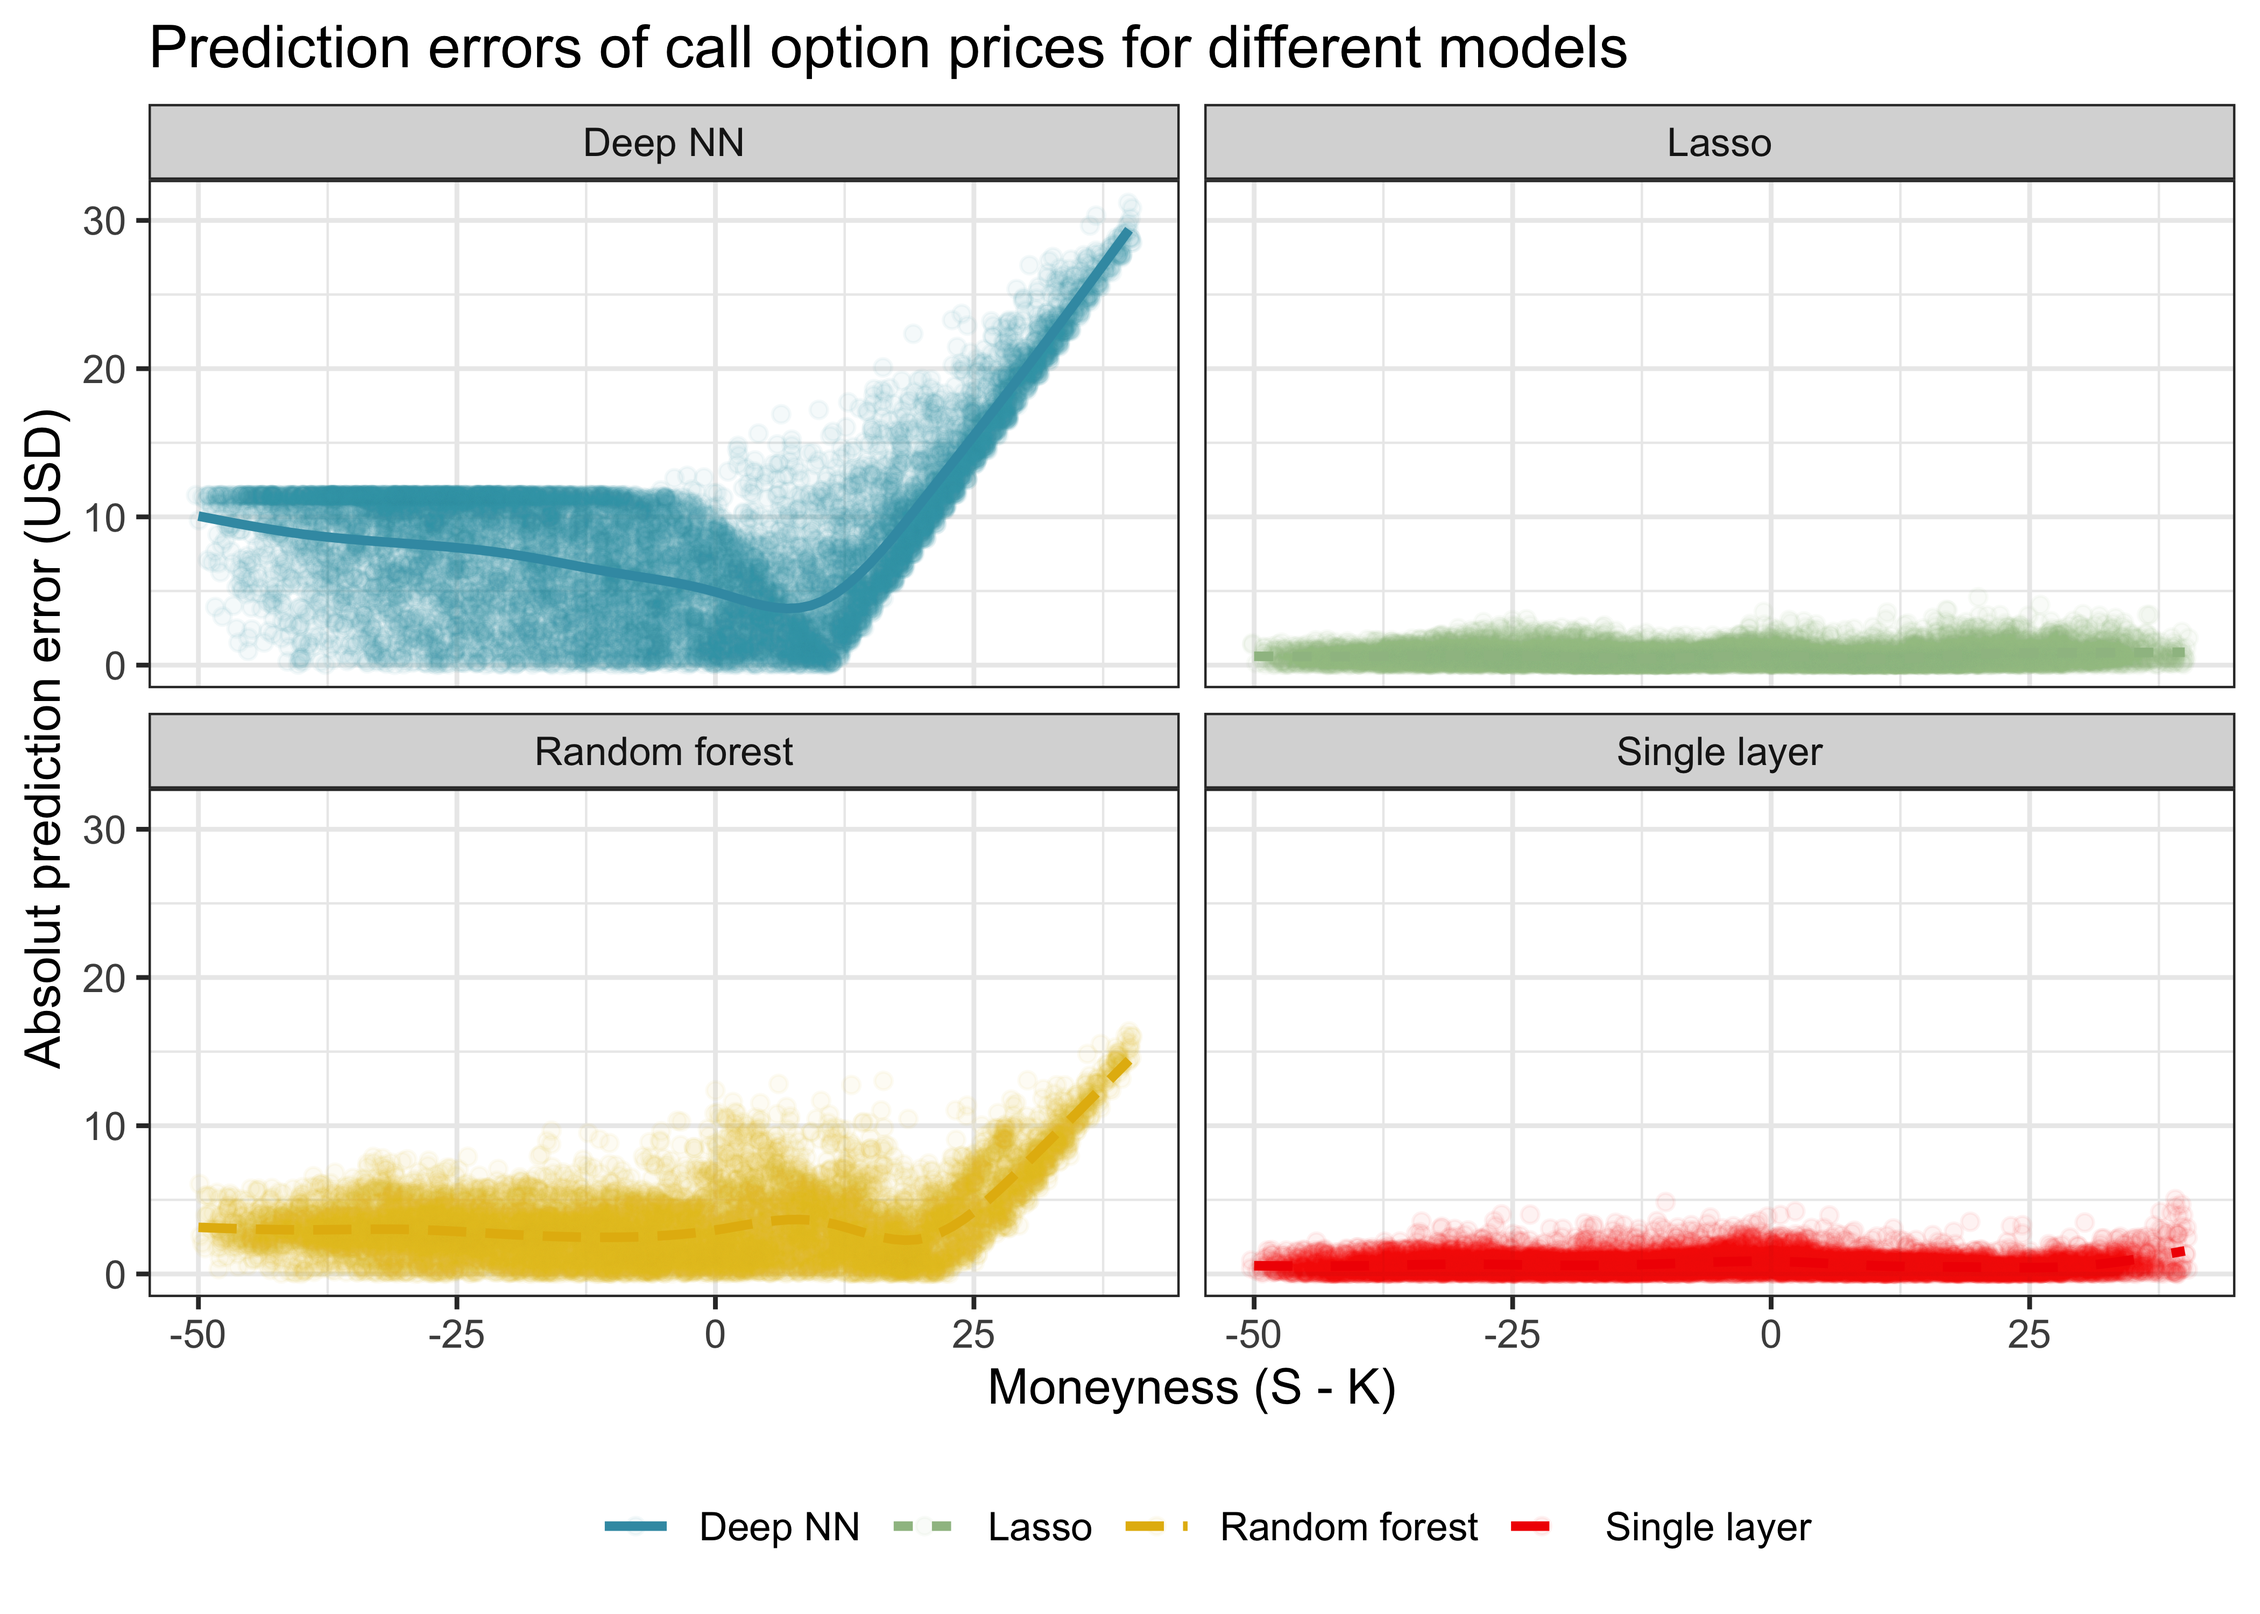
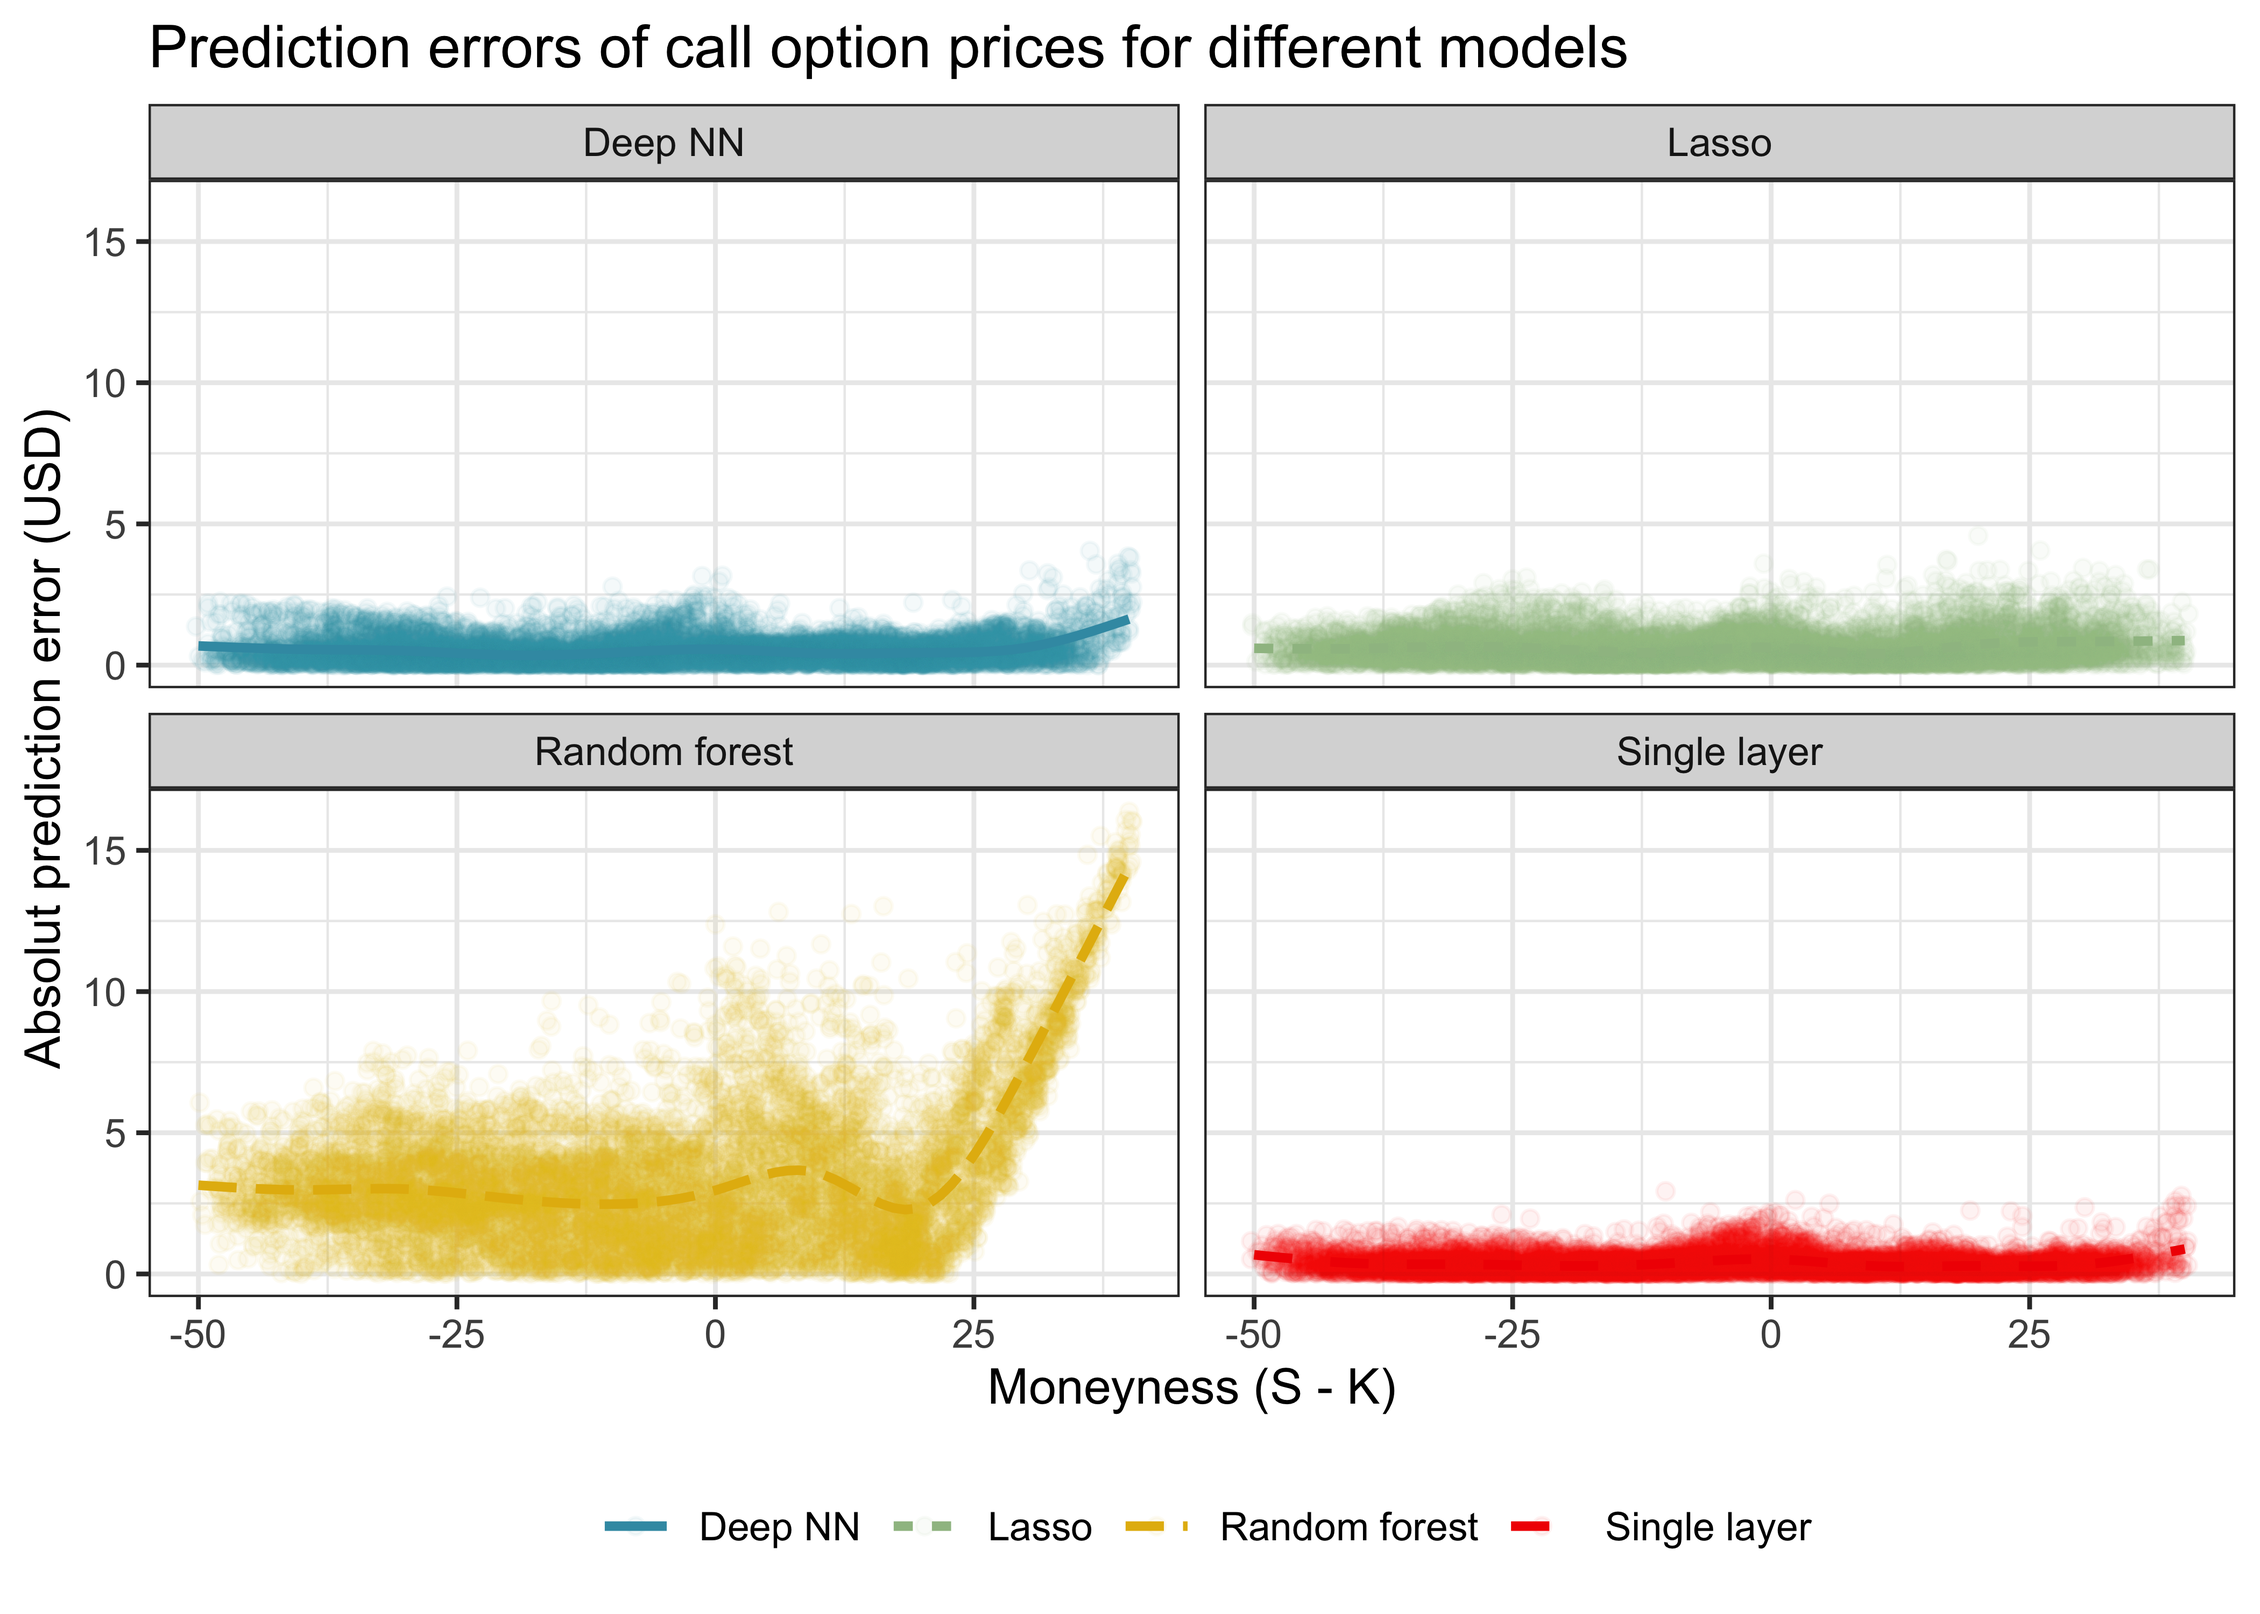
Reduced penalty to the default value of scikit-learn

Changed region(s): [[0.0312, 0.124, 0.9981, 0.434], [0.0312, 0.496, 0.9981, 0.806], [0.5302, 0.744, 0.9669, 0.806]]

diff --git a/docs/r/option-pricing-via-machine-learning.html b/docs/r/option-pricing-via-machine-learning.html
@@ -654,10 +654,11 @@ Note
 <div class="sourceCode cell-code" id="cb6"><pre class="sourceCode r code-with-copy"><code class="sourceCode r"><span id="cb6-1"><a href="#cb6-1" aria-hidden="true" tabindex="-1"></a>nnet_model <span class="ot">&lt;-</span> <span class="fu">mlp</span>(</span>
 <span id="cb6-2"><a href="#cb6-2" aria-hidden="true" tabindex="-1"></a>  <span class="at">epochs =</span> <span class="dv">500</span>,</span>
 <span id="cb6-3"><a href="#cb6-3" aria-hidden="true" tabindex="-1"></a>  <span class="at">hidden_units =</span> <span class="dv">10</span>,</span>
-<span id="cb6-4"><a href="#cb6-4" aria-hidden="true" tabindex="-1"></a>  <span class="at">activation =</span> <span class="st">"sigmoid"</span></span>
-<span id="cb6-5"><a href="#cb6-5" aria-hidden="true" tabindex="-1"></a>) <span class="sc">|&gt;</span></span>
-<span id="cb6-6"><a href="#cb6-6" aria-hidden="true" tabindex="-1"></a>  <span class="fu">set_mode</span>(<span class="st">"regression"</span>) <span class="sc">|&gt;</span></span>
-<span id="cb6-7"><a href="#cb6-7" aria-hidden="true" tabindex="-1"></a>  <span class="fu">set_engine</span>(<span class="st">"brulee"</span>, <span class="at">verbose =</span> <span class="cn">FALSE</span>)</span></code><button title="Copy to Clipboard" class="code-copy-button"><i class="bi"></i></button></pre></div>
+<span id="cb6-4"><a href="#cb6-4" aria-hidden="true" tabindex="-1"></a>  <span class="at">activation =</span> <span class="st">"sigmoid"</span>,</span>
+<span id="cb6-5"><a href="#cb6-5" aria-hidden="true" tabindex="-1"></a>  <span class="at">penalty =</span> <span class="fl">0.0001</span></span>
+<span id="cb6-6"><a href="#cb6-6" aria-hidden="true" tabindex="-1"></a>) <span class="sc">|&gt;</span></span>
+<span id="cb6-7"><a href="#cb6-7" aria-hidden="true" tabindex="-1"></a>  <span class="fu">set_mode</span>(<span class="st">"regression"</span>) <span class="sc">|&gt;</span></span>
+<span id="cb6-8"><a href="#cb6-8" aria-hidden="true" tabindex="-1"></a>  <span class="fu">set_engine</span>(<span class="st">"brulee"</span>, <span class="at">verbose =</span> <span class="cn">FALSE</span>)</span></code><button title="Copy to Clipboard" class="code-copy-button"><i class="bi"></i></button></pre></div>
 </div>
 <p>The <code>verbose = FALSE</code> argument prevents logging the results to the console. We can follow the straightforward <code>tidymodel</code> workflow as in <a href="../r/factor-selection-via-machine-learning.html">Factor Selection via Machine Learning</a>: define a workflow, equip it with the recipe, and specify the associated model. Finally, fit the model with the training data.</p>
 <div class="cell">
@@ -691,10 +692,11 @@ Note
 <div class="sourceCode cell-code" id="cb10"><pre class="sourceCode r code-with-copy"><code class="sourceCode r"><span id="cb10-1"><a href="#cb10-1" aria-hidden="true" tabindex="-1"></a>deep_nnet_model <span class="ot">&lt;-</span> <span class="fu">mlp</span>(</span>
 <span id="cb10-2"><a href="#cb10-2" aria-hidden="true" tabindex="-1"></a>  <span class="at">epochs =</span> <span class="dv">500</span>,</span>
 <span id="cb10-3"><a href="#cb10-3" aria-hidden="true" tabindex="-1"></a>  <span class="at">hidden_units =</span> <span class="fu">c</span>(<span class="dv">10</span>, <span class="dv">10</span>, <span class="dv">10</span>),</span>
-<span id="cb10-4"><a href="#cb10-4" aria-hidden="true" tabindex="-1"></a>  <span class="at">activation =</span> <span class="st">"sigmoid"</span></span>
-<span id="cb10-5"><a href="#cb10-5" aria-hidden="true" tabindex="-1"></a>) <span class="sc">|&gt;</span></span>
-<span id="cb10-6"><a href="#cb10-6" aria-hidden="true" tabindex="-1"></a>  <span class="fu">set_mode</span>(<span class="st">"regression"</span>) <span class="sc">|&gt;</span></span>
-<span id="cb10-7"><a href="#cb10-7" aria-hidden="true" tabindex="-1"></a>  <span class="fu">set_engine</span>(<span class="st">"brulee"</span>, <span class="at">verbose =</span> <span class="cn">FALSE</span>)</span></code><button title="Copy to Clipboard" class="code-copy-button"><i class="bi"></i></button></pre></div>
+<span id="cb10-4"><a href="#cb10-4" aria-hidden="true" tabindex="-1"></a>  <span class="at">activation =</span> <span class="st">"sigmoid"</span>,</span>
+<span id="cb10-5"><a href="#cb10-5" aria-hidden="true" tabindex="-1"></a>  <span class="at">penalty =</span> <span class="fl">0.0001</span></span>
+<span id="cb10-6"><a href="#cb10-6" aria-hidden="true" tabindex="-1"></a>) <span class="sc">|&gt;</span></span>
+<span id="cb10-7"><a href="#cb10-7" aria-hidden="true" tabindex="-1"></a>  <span class="fu">set_mode</span>(<span class="st">"regression"</span>) <span class="sc">|&gt;</span></span>
+<span id="cb10-8"><a href="#cb10-8" aria-hidden="true" tabindex="-1"></a>  <span class="fu">set_engine</span>(<span class="st">"brulee"</span>, <span class="at">verbose =</span> <span class="cn">FALSE</span>)</span></code><button title="Copy to Clipboard" class="code-copy-button"><i class="bi"></i></button></pre></div>
 </div>
 <p>To train the neural network, we provide the inputs (<code>x</code>) and the variable to predict (<code>y</code>) and then fit the parameters. Note the slightly tedious use of the method <code>extract_mold(nn_fit)</code>. Instead of simply using the <em>raw</em> data, we fit the neural network with the same processed data that is used for the single-layer feed-forward network. What is the difference to simply calling <code>x = training(data) |&gt; select(-observed_price, -black_scholes)</code>? Recall that the recipe standardizes the variables such that all columns have unit standard deviation and zero mean. Further, it adds consistency if we ensure that all models are trained using the same recipe such that a change in the recipe is reflected in the performance of any model. A final note on a potentially irritating observation: <code>fit()</code> alters the model - this is one of the few instances, where a function in R alters the <em>input</em> such that after the function call the object <code>model</code> is not same anymore!</p>
 <div class="cell">
@@ -1285,7 +1287,7 @@ window.document.addEventListener("DOMContentLoaded", function (event) {
     </div>
   </div>
 </footer>
-<script>var lightboxQuarto = GLightbox({"descPosition":"bottom","openEffect":"zoom","closeEffect":"zoom","loop":false,"selector":".lightbox"});
+<script>var lightboxQuarto = GLightbox({"descPosition":"bottom","openEffect":"zoom","closeEffect":"zoom","selector":".lightbox","loop":false});
 window.onload = () => {
   lightboxQuarto.on('slide_before_load', (data) => {
     const { slideIndex, slideNode, slideConfig, player, trigger } = data;
